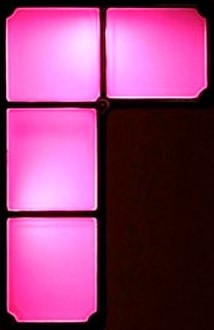
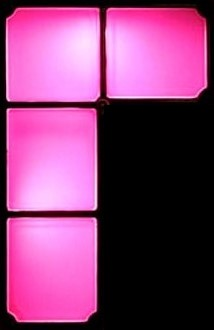
Добавлены спрайты фигур и их движение на поле

diff --git a/main.py b/main.py
@@ -3,6 +3,34 @@ import sys
 import random
 import pygame
 
+shapes_type = {
+    1: [[0, 1, 0, 0],
+        [0, 1, 0, 0],
+        [0, 1, 0, 0],
+        [0, 1, 0, 0]],
+
+    2: [[0, 0, 0, 0],
+        [0, 1, 1, 0],
+        [0, 1, 1, 0],
+        [0, 0, 0, 0]],
+
+    3: [[0, 0, 0, 0],
+        [0, 1, 1, 0],
+        [0, 1, 0, 0],
+        [0, 1, 0, 0]],
+
+    4: [[0, 0, 0, 0],
+        [0, 1, 0, 0],
+        [0, 1, 1, 0],
+        [0, 1, 0, 0]],
+
+    5: [[0, 0, 0, 0],
+        [0, 1, 0, 0],
+        [0, 1, 1, 0],
+        [0, 0, 1, 0]]
+
+}
+
 
 class Board:
     # создание поля
@@ -29,58 +57,51 @@ class Board:
                                                            self.cell_size,
                                                            self.cell_size), 1)
 
-class Shape:
-    def __init__(self, color):
-        self.color = color
-        shapes_type = {
-            1: [[0, 1, 0, 0],
-                [0, 1, 0, 0],
-                [0, 1, 0, 0],
-                [0, 1, 0, 0]],
 
-            2: [[0, 0, 0, 0],
-                [0, 1, 1, 0],
-                [0, 1, 1, 0],
-                [0, 0, 0, 0]],
-
-            3: [[0, 0, 0, 0],
-                [0, 1, 1, 0],
-                [0, 1, 0, 0],
-                [0, 1, 0, 0]],
-
-            4: [[0, 0, 0, 0],
-                [0, 1, 0, 0],
-                [0, 1, 1, 0],
-                [0, 1, 0, 0]],
-
-            5: [[0, 0, 0, 0],
-                [0, 1, 0, 0],
-                [0, 1, 1, 0],
-                [0, 0, 1, 0]]
-
-        }
-
-    def new_shape(self):
-        self.color = random.randint(0, 255)
+class Shape(pygame.sprite.Sprite):
+    def __init__(self):
+        super().__init__(all_sprites)
         self.shape = random.randint(1, 5)
-        sprite = pygame.sprite.Sprite()
-        sprite.image = load_image(f"{self.shape}.jpg")
+        self.image = load_image(f"{self.shape}.png")
         if self.shape == 1:
-            sprite.image = pygame.transform.scale(sprite.image, (50, 200))
+            self.image = pygame.transform.scale(self.image, (48, 198))
         elif self.shape == 2:
-            sprite.image = pygame.transform.scale(sprite.image, (100, 100))
+            self.image = pygame.transform.scale(self.image, (98, 98))
         else:
-            sprite.image = pygame.transform.scale(sprite.image, (100, 150))
-        sprite.rect = sprite.image.get_rect()
-        sprite.mask = pygame.mask.from_surface(sprite.image)
-        all_sprites.add(sprite)
-        sprite.rect.x = 150
-        sprite.rect.y = 25
-        return sprite
+            self.image = pygame.transform.scale(self.image, (98, 148))
+        self.rect = self.image.get_rect()
+        self.mask = pygame.mask.from_surface(self.image)
+        self.rect.x = random.randint(1, 7) * 50
+        self.rect.y = -100
+
+    def move(self, key):
+        if self.rect.y != 625 - self.rect.size[1]:
+            if key == pygame.K_LEFT:
+                if 50 != self.rect.x:
+                    self.rect = self.rect.move(-50, 0)
+            else:
+                if self.rect.x + self.rect.size[0] < 400:
+                    self.rect = self.rect.move(50, 0)
+
+    def turn(self):
+        current_x = self.rect.x
+        current_y = self.rect.y
+        self.image = pygame.transform.rotate(self.image, 90)
+        self.rect = self.image.get_rect()
+        self.rect.y = current_y
+        self.rect.x = current_x
+        self.mask = pygame.mask.from_surface(self.image)
 
     def update(self):
-        if self.rect.y < 625 - self.rect.size[1] and not pygame.sprite.collide_mask(self, shape):
+        global main_shape
+        if self.rect.y < 625 - self.rect.size[1] and \
+                not any([pygame.sprite.collide_mask(self, shape) for shape in calm_shapes]):
             self.rect = self.rect.move(0, 1)
+
+        elif self.rect.y == 625 - self.rect.size[1] or \
+                any([pygame.sprite.collide_mask(self, shape) for shape in calm_shapes]):
+            self.add(calm_shapes)
+            main_shape = Shape()
 
 
 class Border(pygame.sprite.Sprite):
@@ -95,6 +116,7 @@ class Border(pygame.sprite.Sprite):
             self.add(horizontal_borders)
             self.image = pygame.Surface([x2 - x1, 1])
             self.rect = pygame.Rect(x1, y1, x2 - x1, 1)
+
 
 def load_image(name, colorkey=None):
     fullname = os.path.join('data', name)
@@ -118,28 +140,37 @@ if __name__ == '__main__':
     pygame.display.set_caption('')
     size = width, height = 500, 650
     all_sprites = pygame.sprite.Group()
+    calm_shapes = pygame.sprite.Group()
     screen = pygame.display.set_mode(size)
     horizontal_borders = pygame.sprite.Group()
     vertical_borders = pygame.sprite.Group()
-    Border(1, height - 1, width - 1, height - 1)
-    Border(1, 1, 1, height - 1)
-    Border(width - 1, 1, width - 1, height - 1)
+
+    # Border(5, 5, width - 5, 5) вепхняя граница
+    Border(50, height - 25, width - 50, height - 25)
+    Border(50, 25, 50, height - 25)
+    Border(width - 50, 25, width - 50, height - 25)
+
     board = Board(8, 12)
     running = True
-
 
     MYEVENTTYPE = pygame.USEREVENT + 1
     pygame.time.set_timer(MYEVENTTYPE, 1000)
     clock = pygame.time.Clock()
 
-    shape = Shape.new_shape(Shape)
+    main_shape = Shape()
 
     while running:
         for event in pygame.event.get():
             if event.type == pygame.QUIT:
                 running = False
+            elif event.type == pygame.KEYDOWN:
+                if event.key in [pygame.K_LEFT, pygame.K_RIGHT]:
+                    main_shape.move(event.key)
+                if event.key == pygame.K_UP:
+                    main_shape.turn()
+        screen.fill((0, 0, 0))
         all_sprites.draw(screen)
-        all_sprites.update()
+        main_shape.update()
         board.render(screen)
         pygame.display.flip()
-        clock.tick(90)
+        clock.tick(180)
